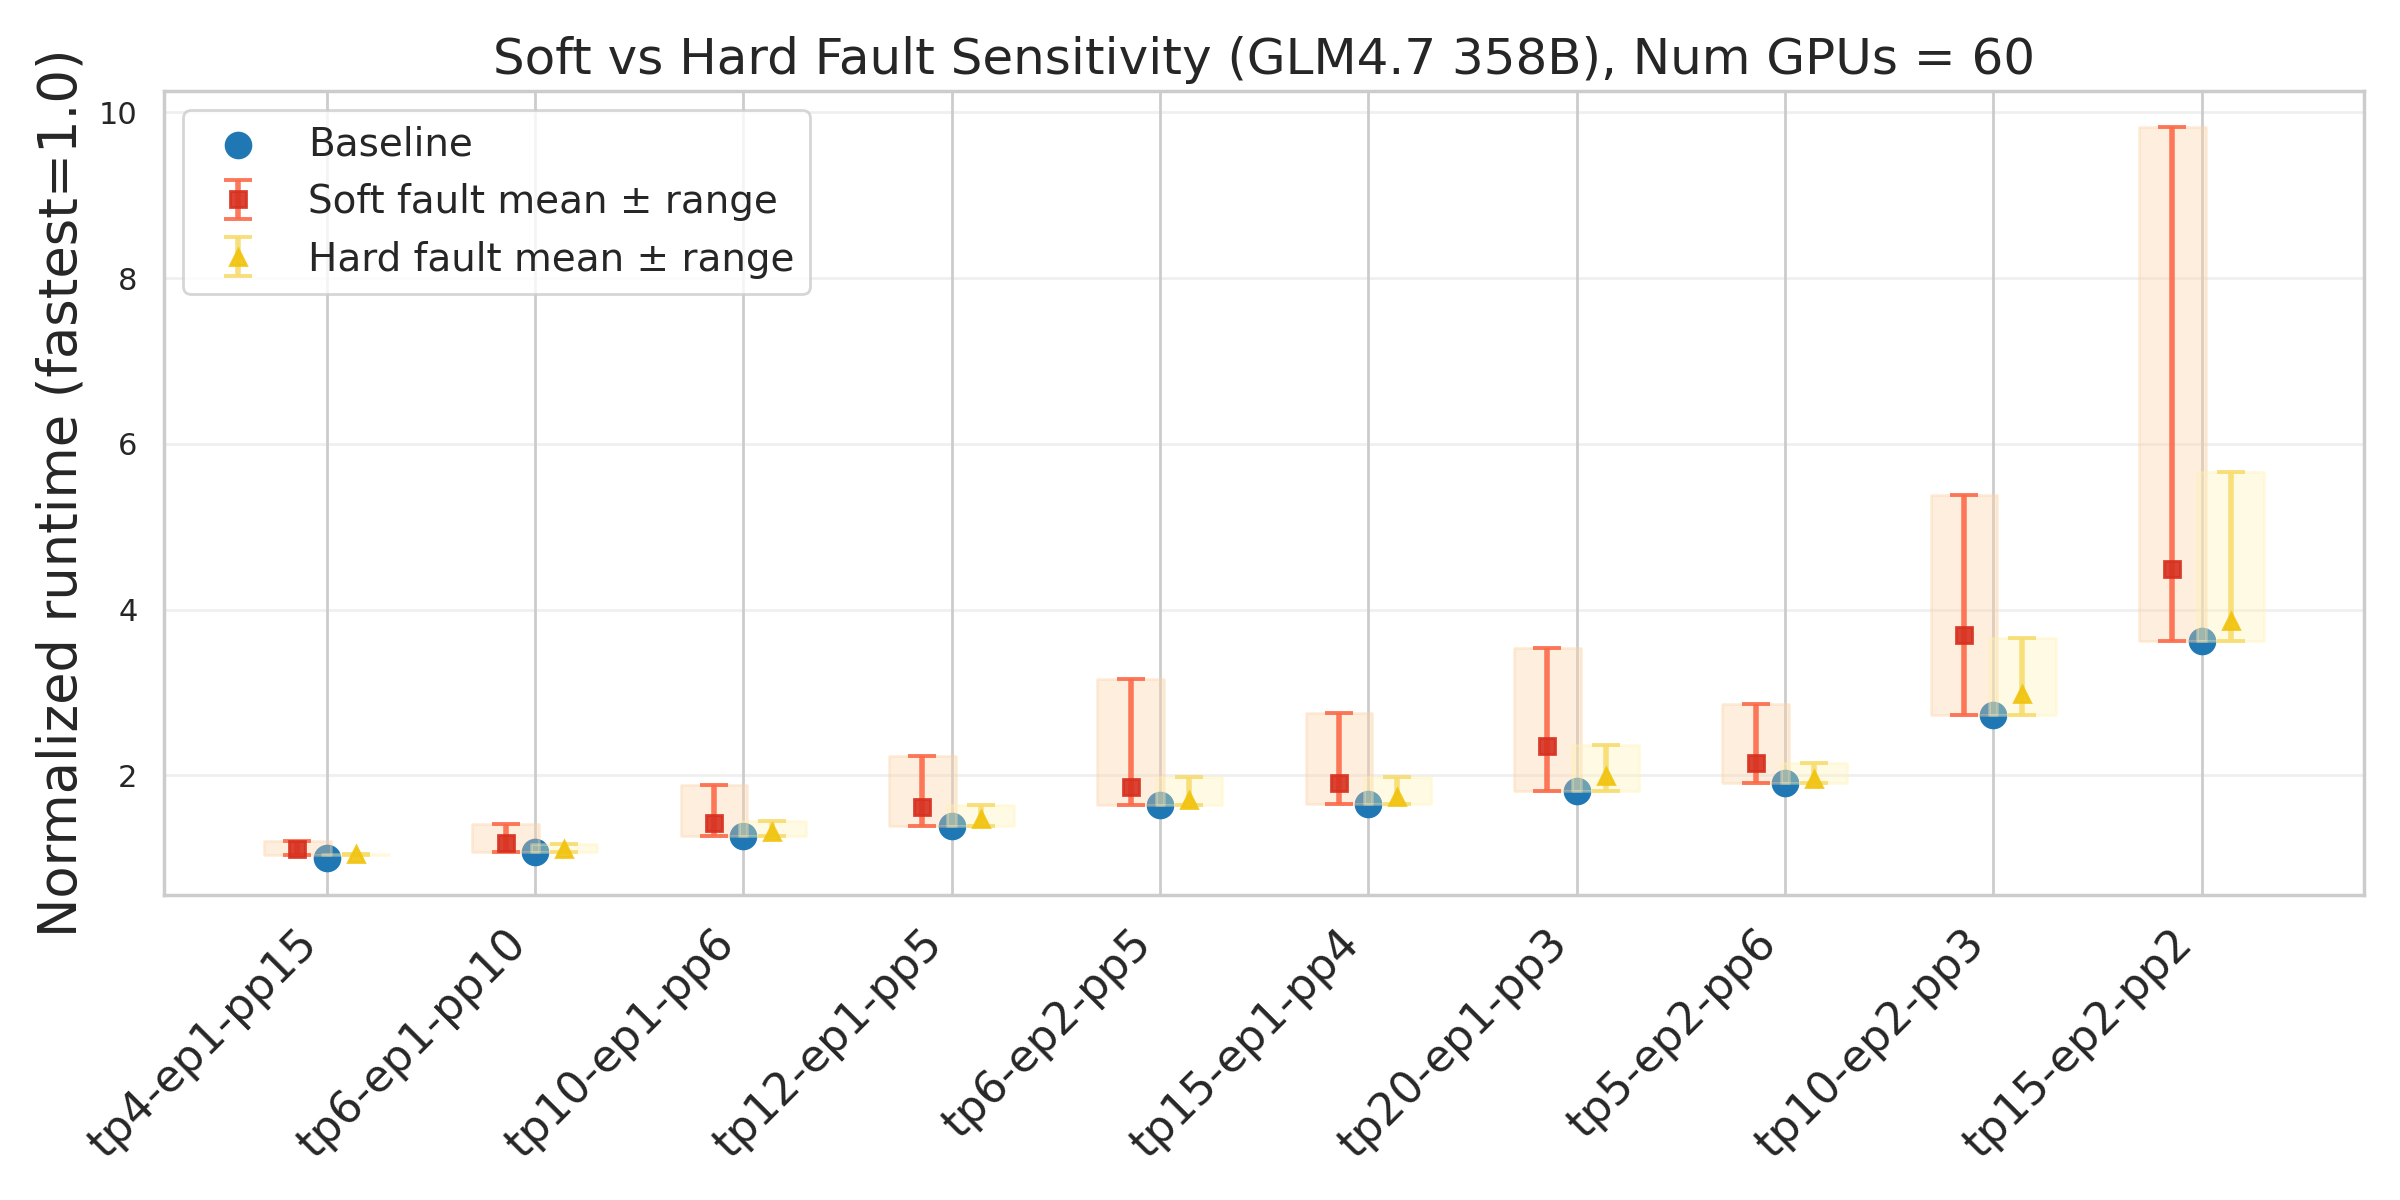
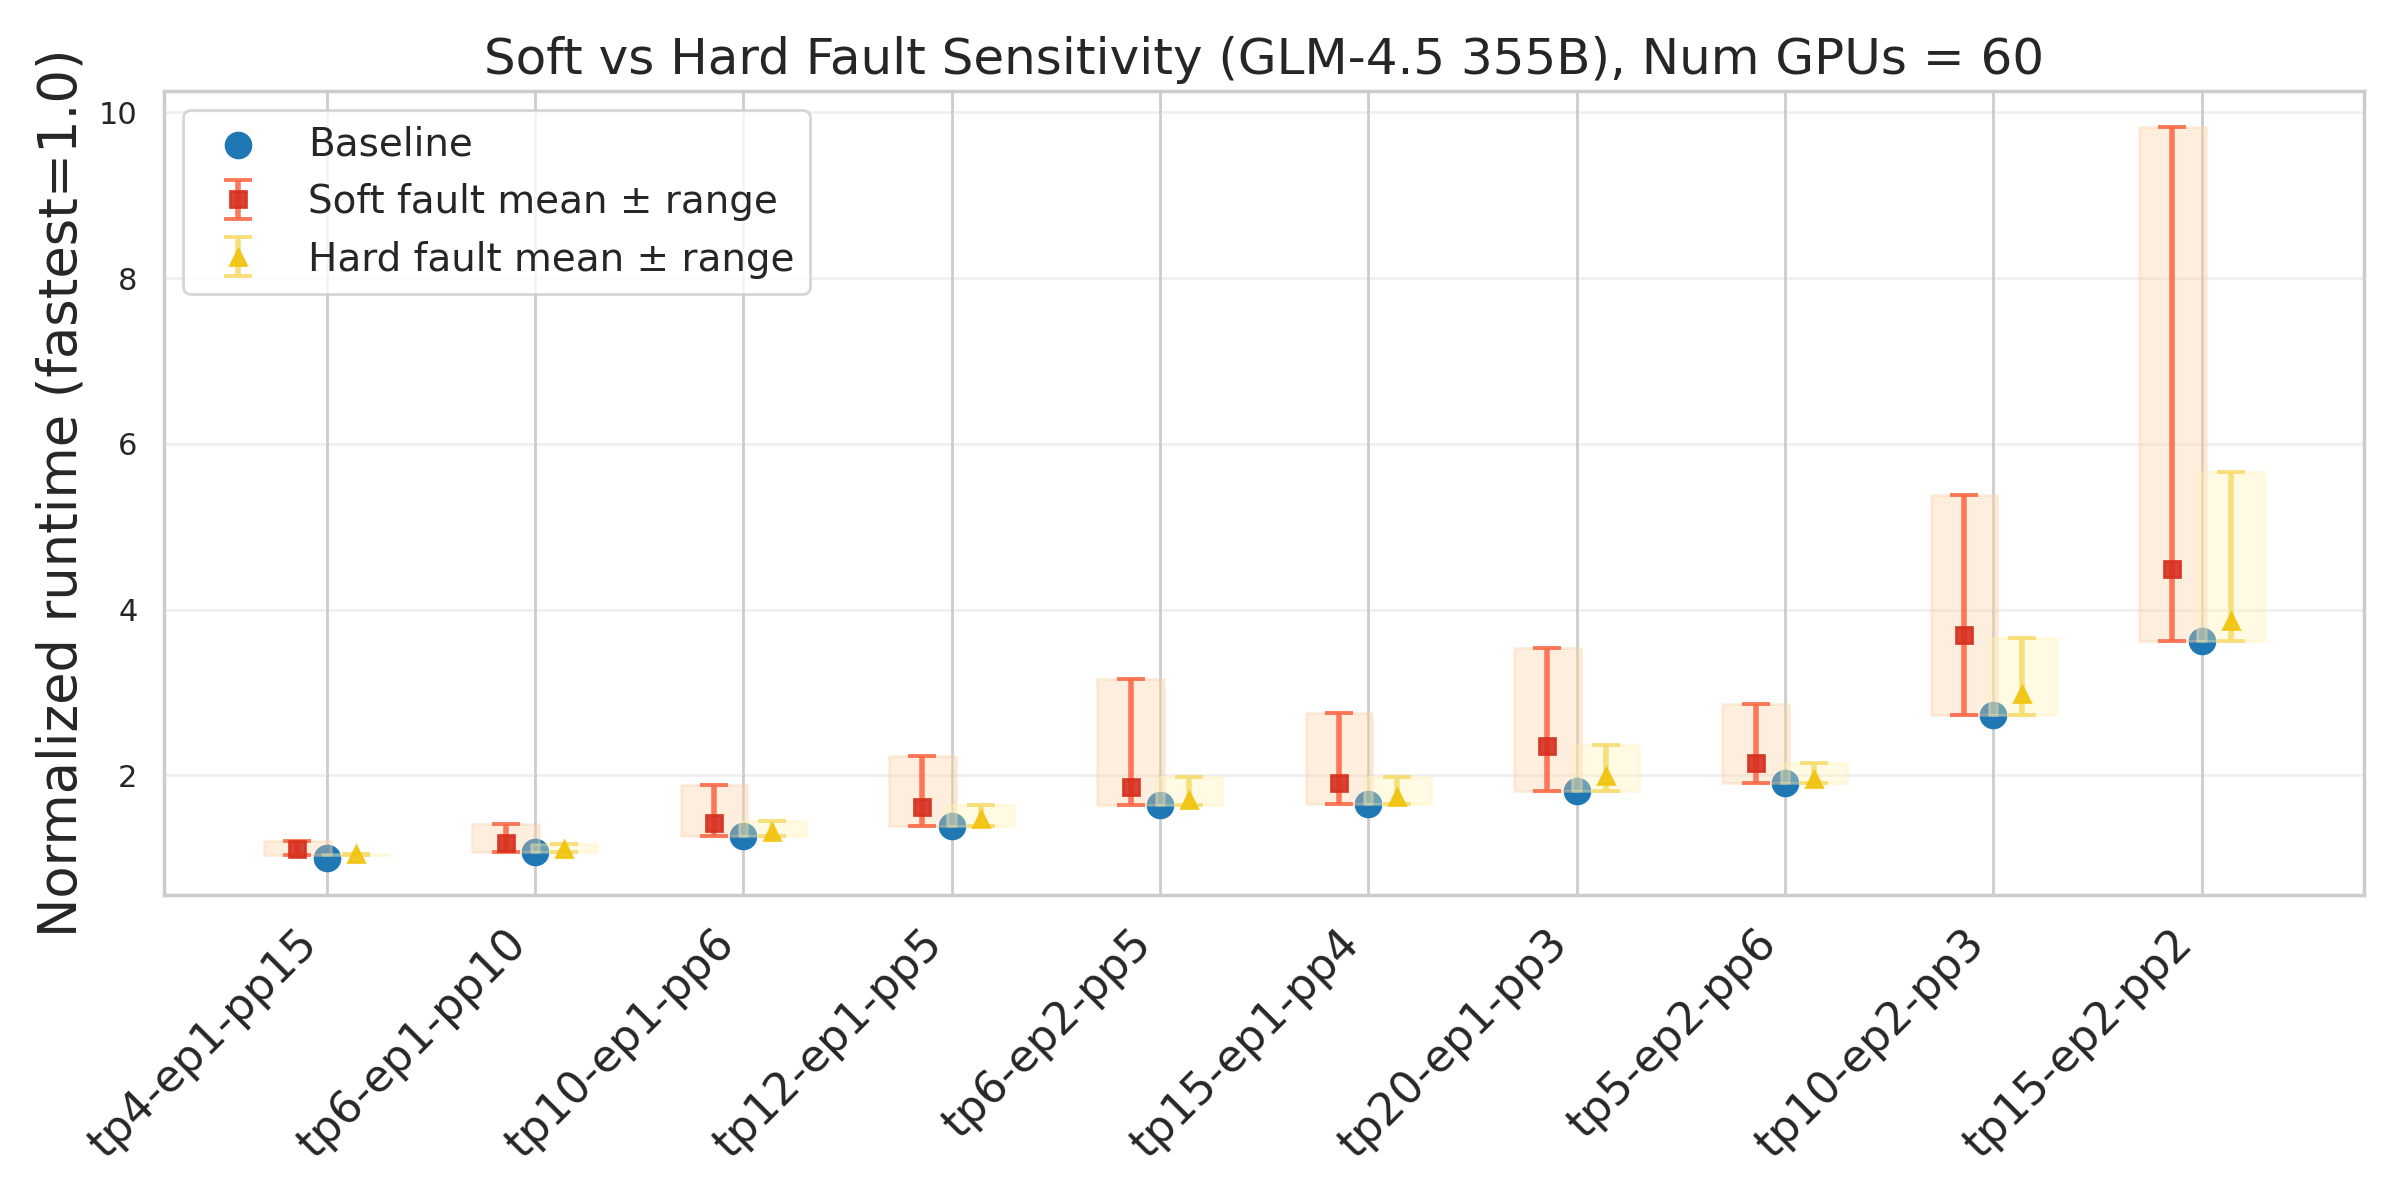
GLM fault figure retitled GLM-4.5 355B (config = published 355B architecture); regenerated from recorded results via --plot-only

Changed region(s): [[0.1875, 0.0308, 0.875, 0.0617]]

diff --git a/outputs/fault_glm_u80/fault_sweep_glm.py b/outputs/fault_glm_u80/fault_sweep_glm.py
@@ -2251,7 +2251,7 @@ def plot_fault_sensitivity_combined(
     ylabel = "Normalized runtime (fastest=1.0)" if normalize else "Runtime (s)"
     plt.ylabel(ylabel, fontsize=19)
     plt.title(
-        f"Soft vs Hard Fault Sensitivity (GLM4.7 358B), Num GPUs = {num_gpus}",
+        f"Soft vs Hard Fault Sensitivity (GLM-4.5 355B), Num GPUs = {num_gpus}",
         fontsize=18,
     )
     plt.grid(alpha=0.3, axis="y")
